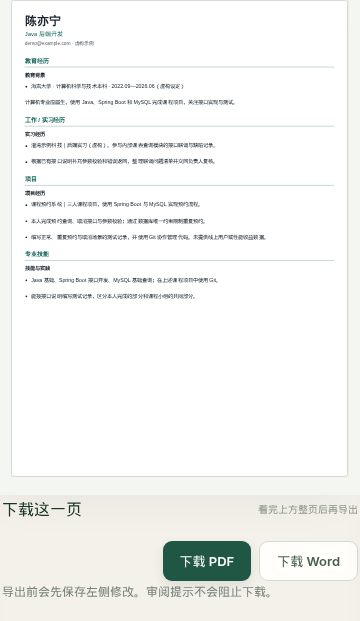
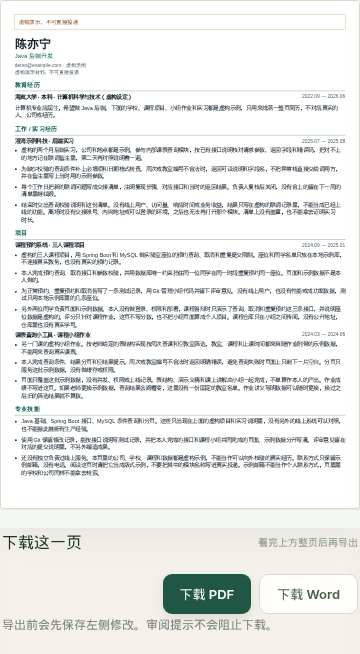
Fill the fictional demo page used by the README preview.
陈亦宁 now has education, an internship, two course projects, and skills, all marked as fictional. The workbench layout is unchanged.

diff --git a/app/demo.py b/app/demo.py
@@ -2,21 +2,58 @@ from app.models import ResumeContent
 
 
 def demo_content() -> ResumeContent:
+    """Fictional full-page sample. 陈亦宁 is not a real person."""
     return ResumeContent.model_validate({
-        "name": "陈亦宁", "target_role": "Java 后端开发", "contact": "demo@example.com · 虚构示例",
-        "summary": "计算机专业应届生，使用 Java、Spring Boot 和 MySQL 完成课程项目，关注接口实现与测试。",
+        "name": "陈亦宁",
+        "target_role": "Java 后端开发",
+        "contact": "demo@example.com · 虚构示例",
+        "profile_note": "虚构演示材料，不可直接投递",
+        "summary": "计算机专业应届生，希望做 Java 后端。下面的学校、课程项目、小组作业和实习都是虚构示例，只用来排满一整页简历，不对应真实的人、公司或经历。",
+        "education": [{
+            "id": "school",
+            "school": "海岚大学",
+            "degree": "本科",
+            "major": "计算机科学与技术（虚构设定）",
+            "start_date": "2022-09",
+            "end_date": "2026-06",
+        }],
         "sections": [
-            {"id": "education", "title": "教育背景", "items": [
-                {"id": "school", "text": "海岚大学 · 计算机科学与技术本科 · 2022.09—2026.06（虚构设定）"}]},
-            {"id": "projects", "title": "项目经历", "items": [
-                {"id": "project-context", "text": "课程预约系统｜三人课程项目，使用 Spring Boot 与 MySQL 实现预约流程。"},
-                {"id": "project-own", "text": "本人完成预约查询、取消接口与参数校验；通过数据库唯一约束限制重复预约。"},
-                {"id": "project-test", "text": "编写正常、重复预约与取消场景的测试记录，并使用 Git 协作管理代码。未提供线上用户或性能收益数据。"}]},
-            {"id": "intern", "title": "实习经历", "items": [
-                {"id": "intern-place", "text": "澄湾示例科技｜后端实习（虚构）。参与内部课表查询模块的接口联调与缺陷记录。"},
-                {"id": "intern-work", "text": "根据已有接口说明补充参数校验和错误返回，整理联调问题清单并交回负责人复核。"}]},
-            {"id": "skills", "title": "技能与实践", "items": [
-                {"id": "skill-java", "text": "Java 基础、Spring Boot 接口开发、MySQL 基础查询；在上述课程项目中使用 Git。"},
-                {"id": "skill-collab", "text": "能按接口说明编写测试记录，区分本人完成的部分和课程小组的共同部分。"}]},
+            {
+                "id": "intern", "kind": "work", "title": "澄湾示例科技", "role": "后端实习",
+                "start_date": "2025-07", "end_date": "2025-08",
+                "items": [
+                    {"id": "intern-place", "text": "虚构的两个月后端实习，公司和地点都是示例。参与内部课表查询模块，按已有接口说明核对请求参数、返回字段和错误码，把对不上的地方记在联调备注里，第二天再对照说明看一遍。"},
+                    {"id": "intern-work", "text": "为缺少校验的查询条件补上必填项和日期格式检查。周次或教室编号不合法时，返回可读说明和字段名，不把异常栈直接交给调用方，并在备注里写上当时用的示例参数。"},
+                    {"id": "intern-handoff", "text": "每个工作日把新的联调问题写成交接清单，注明复现步骤、对应接口和当时的返回结果。负责人复核后关闭，没有合上的留在下一周的清单里继续跟。"},
+                    {"id": "intern-result", "text": "结束时交出查询校验说明和这份清单。没有线上用户、访问量、响应时间或业务收益，结果只写在虚构的联调记录里，不能当成已经上线的功能。离场时没有交接账号、内网地址或可以登录的环境，之后也无法再打开那个模块。清单上没有盖章，也不能拿去证明实习时长。"},
+                ],
+            },
+            {
+                "id": "booking", "kind": "project", "title": "课程预约系统", "role": "三人课程项目",
+                "start_date": "2024-09", "end_date": "2025-01",
+                "items": [
+                    {"id": "project-context", "text": "虚构的三人课程项目，用 Spring Boot 和 MySQL 做实验室座位的预约查询、取消和重复提交限制。座位和同学名单只放在本地示例库，不连接真实教务，也没有真实的预约记录。"},
+                    {"id": "project-own", "text": "本人完成预约查询、取消接口和参数校验，并用数据库唯一约束挡住同一位同学在同一时段重复预约同一座位。页面和示例数据不是本人做的。"},
+                    {"id": "project-test", "text": "为正常预约、重复预约和取消各写了一条测试记录，用 Git 管理小组代码并留下评审意见。没有线上用户，也没有性能或成功率数据，测试只用本地示例库里的几条座位。"},
+                    {"id": "project-share", "text": "另外两位同学负责页面和示例数据。本人没有做登录、权限和部署，课程答辩时只演示了查询、取消和重复预约这三条接口，并说明座位数据是虚构的。评分只针对课程作业，这页不写分数，也不把小组页面算成个人项目。课程仓库只在小组之间传阅，没有公开地址，仓库里也没有真实学号。"},
+                ],
+            },
+            {
+                "id": "timetable", "kind": "project", "title": "课表查询小工具", "role": "课程小组作业",
+                "start_date": "2024-03", "end_date": "2024-06",
+                "items": [
+                    {"id": "table-context", "text": "另一门课的虚构小组作业。按老师给定的表结构实现按周次查课和空教室筛选，教室、课程和上课时间都来自随作业附带的示例数据，不能用来查询真实课表。"},
+                    {"id": "table-own", "text": "本人完成查询条件、结果分页和空结果提示。周次或教室编号不合法时返回明确错误，避免查询失败时页面上只剩下一片空白。分页只服务这批示例数据，没有做缓存或权限。"},
+                    {"id": "table-limit", "text": "页面只覆盖这批示例数据，没有并发、权限或上线记录。表结构、演示文稿和课上讲解由小组一起完成，不单算作本人的产出。作业成绩不写进这页。如果老师更换示例数据，查询结果会跟着变，这里没有一份固定的教室名单。作业讲义写明数据可以随时更换，换过之后旧的筛选结果就不算数。"},
+                ],
+            },
+            {
+                "id": "skills", "kind": "skills", "title": "专业技能",
+                "items": [
+                    {"id": "skill-java", "text": "Java 基础、Spring Boot 接口、MySQL 条件查询和分页。这些只出现在上面的虚构项目和实习说明里，没有另外的线上系统可以对照，也不能据此推断有生产经验。"},
+                    {"id": "skill-collab", "text": "使用 Git 保留修改记录，能按接口说明写测试记录，并把本人完成的接口和课程小组共同完成的页面、示例数据分开写清。评审意见留在对应的提交说明里，不另外编造成果。"},
+                    {"id": "skill-limit", "text": "还没有独立负责过线上服务。本页里的公司、学校、课程和数据都是虚构示例，不能当作可以向外核验的真实经历。联系方式只保留示例邮箱，没有电话。阅读这页时请把它当成版式示例，不要把其中的模块名称写进真实投递。示例邮箱不能当作个人联系方式，页眉里的学校和公司同样不能拿去检索。"},
+                ],
+            },
         ],
     })

diff --git a/README.md b/README.md
@@ -14,8 +14,10 @@
 </p>
 
 <p align="center">
-  <img src="docs/images/workbench-a4.png" alt="虚构示例陈亦宁的简历预览：右侧固定为一整页 A4，没有内嵌滚动条；下载 PDF 和下载 Word 在这一页下方。" width="420">
+  <img src="docs/images/workbench-a4.png" alt="虚构示例陈亦宁的整页简历：一页 A4 写满教育、实习、两段课程项目和技能，下载 PDF 与下载 Word 在这一页下方。页内姓名、学校和公司都是虚构的。" width="420">
 </p>
+
+上图是应用内虚构示例「陈亦宁」的整页预览，学校、公司和经历都是虚构的，不可投递。
 
 ## 快速启动
 
